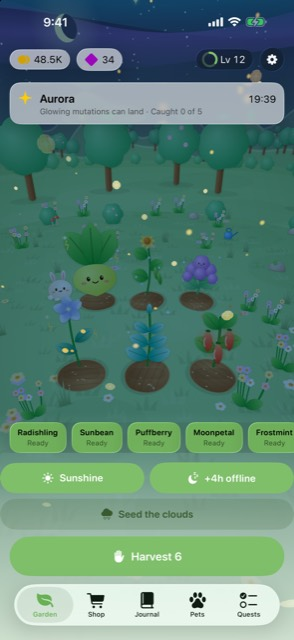
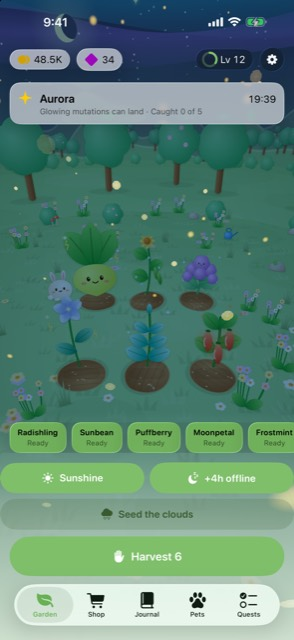
The site catches up with the front door, and two reversals that were half-done
Re-exported the six screenshots from a fresh capture of the build now in review. Four
of the six changed by a few kilobytes -- foliage and particle randomness, not content;
looked at, and identical in substance.

THE UNITED STATES SECTION WAS NEVER REVERTED. Decision 31 dropped tracking in the
morning and this page was rewritten to say so; decision 32 put it back in the afternoon
and the page was rewritten again -- four of the five edits. The fifth survived, telling
a US reader there is no prompt at launch, four paragraphs below the section describing
exactly that prompt. Found by auditing the page against the code rather than against
the edits.

The retention list still promised to delete Live Activity push tokens. There are none:
LiveActivityController calls Activity.request with no pushType, there is no
registerForRemoteNotifications, and the repo contains no URLSession at all. That bullet
was a survivor of the push-relay fiction removed from the section above it three days
ago -- the same wrong idea, in the same file, twice, one of them missed.

SUPPORT PROMISED SOMETHING THE ENGINE DOES NOT. "Level 8 -- the optional rewarded
videos. Nothing shows you an advert before this." Ads.swift gates REWARDED ads on level
8; canShowInterstitial has no level gate at all, only session count and daily caps. A
new player can meet a full-screen ad well before level 8, and the page said they could
not. Corrected to describe both, separately.
[…]

diff --git a/support/index.html b/support/index.html
@@ -47,7 +47,7 @@
 
 <main class="doc wrap narrow">
 <h1>Mutabloom support</h1>
-<p class="updated">Last updated: 20 September 2026</p>
+<p class="updated">Last updated: 23 September 2026</p>
 
 <div class="callout">
   <p><strong>Email <a href="mailto:info@crindustries.xyz">info@crindustries.xyz</a></strong>
@@ -114,6 +114,19 @@ wait for. Run <strong>Restore Purchases</strong> and check that the Purchases se
 Settings shows Remove Ads as owned; if it does and an interstitial still appeared, tell us and
 we will fix it.</p>
 
+<h2>The first time you open Mutabloom</h2>
+<p>Mutabloom opens on a short welcome screen &mdash; the wordmark, a line about the game, and a
+<strong>Start your garden</strong> button &mdash; rather than dropping you straight into a
+garden. It says there that the game is free and paid for by adverts.</p>
+<p>Tapping that button is when the permission questions happen: in Europe, Google's consent form
+about what may be stored on your device for advertising, and then Apple's prompt asking whether
+adverts may be chosen for you. <strong>Either answer gives you the whole game</strong>, every
+reward and the same prices &mdash; the answer only changes how the adverts are picked. Both are
+yours to change later, and <a href="/privacy">the privacy policy</a> sets out exactly what each
+one does.</p>
+<p>You will not see that screen again once you have answered. It comes back only if you reinstall
+the game or reset tracking permissions in iOS Settings.</p>
+
 <h2>Where is the thing this page just described?</h2>
 <p>Probably not missing &mdash; not unlocked yet. Mutabloom opens up over your first few
 sessions rather than putting everything on screen at once, so several of the answers below
@@ -123,8 +136,9 @@ Level, and the level is shown in the top bar of every screen.</p>
   <li><strong>Level 5</strong> &mdash; the Journal.</li>
   <li><strong>Level 6</strong> &mdash; pets and eggs, and your first Common egg is free.</li>
   <li><strong>Level 7</strong> &mdash; daily quests and the harvest streak.</li>
-  <li><strong>Level 8</strong> &mdash; the optional rewarded videos. Nothing shows you an
-  advert before this.</li>
+  <li><strong>Level 8</strong> &mdash; the optional rewarded videos, the ones that pay you. The
+  full-screen adverts are governed separately and not by your level: they never appear in your
+  first couple of sessions, they are capped every day, and Remove Ads takes them away for good.</li>
   <li><strong>Level 10</strong> &mdash; the Daily Sprint, the Game Center sign-in offer, and
   the Lock Screen and Dynamic Island activities.</li>
   <li><strong>Level 12</strong> &mdash; the cosmetics shop, share cards and titles.</li>

diff --git a/privacy/index.html b/privacy/index.html
@@ -152,10 +152,11 @@ Privacy &amp; Security &rarr; Tracking</strong> either. Reopen the <strong>Priva
 options</strong> row in the game if you change your mind.</p>
 
 <h3>United States state privacy laws</h3>
-<p>There is no prompt at launch in the US states with their own privacy laws, and that is
-deliberate rather than missing: those laws are opt-out rather than opt-in. The control is
-standing instead, in the same <strong>Settings &rarr; Privacy Options</strong> row, and that is
-where you say no to the sale or sharing of personal information for targeted advertising.</p>
+<p>Apple's tracking prompt above is shown in the United States like everywhere else. What the
+US state privacy laws additionally require is an opt-out rather than an opt-in, so there is no
+<em>second</em> prompt: the control is standing instead, in the same
+<strong>Settings &rarr; Privacy Options</strong> row, and that is where you say no to the sale or
+sharing of personal information for targeted advertising.</p>
 
 <h3>Notifications</h3>
 <p>Mutabloom asks for notification permission when it first has something worth telling you,
@@ -269,8 +270,6 @@ social login and no advertising network beyond the one named above.</p>
   <li><strong>Analytics and crash data.</strong> Held by Google under their retention
   policies. Deleting and reinstalling the app gives you a new app-instance identifier, which
   unlinks future data from past data.</li>
-  <li><strong>Live Activity tokens.</strong> Deleted when the activity ends, when the token
-  expires, or when the app is deleted.</li>
   <li><strong>Anything else.</strong> Write to the address below. Where the law where you
   live gives you rights to access, correct, delete, or object &mdash; the GDPR, the UK GDPR,
   the CCPA and its relatives &mdash; that address is how you exercise them, and we will

diff --git a/index.html b/index.html
@@ -104,7 +104,9 @@
       <h3>Ads are gifts, not tolls</h3>
       <p>The ads worth having are the ones you choose: double a harvest, re-roll the shop,
       make it rain. Interstitials are rare, capped, and never in your first sessions or in
-      the middle of weather.</p>
+      the middle of weather. The game says so on its own first screen, which is also where iOS
+      asks whether adverts may be chosen for you &mdash; either answer gives you the whole
+      game.</p>
     </div>
     <div class="card">
       <h3>Premium feel</h3>
@@ -144,10 +146,10 @@
 
 <section><div class="wrap">
   <h2>Coming soon</h2>
-  <p>Mutabloom is finished and waiting for App Review. Every picture below is the real game,
-  captured from the build that was submitted &mdash; no mock-ups and nothing painted in
-  afterwards. There are no review quotes on this page because nobody outside has played it
-  yet; they will appear when they are real, and not before.</p>
+  <p>Mutabloom is finished and in App Review. Every picture below is the real game, captured
+  from it on a phone &mdash; no mock-ups and nothing painted in afterwards. There are no review
+  quotes on this page because nobody outside has played it yet; they will appear when they are
+  real, and not before.</p>
   <ul class="shots">
     <li><img src="/assets/shots/06-fair.jpg" width="294" height="640" loading="lazy"
       alt="A meadow garden with thirty-six planted plots in neat rows, a Harvest 36 button
